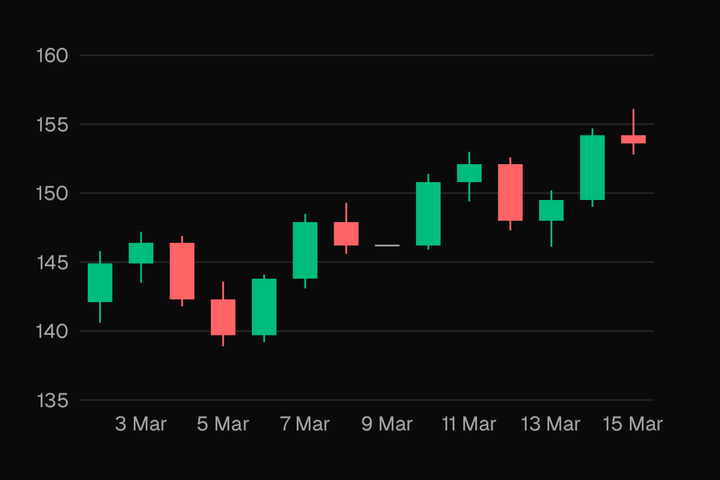
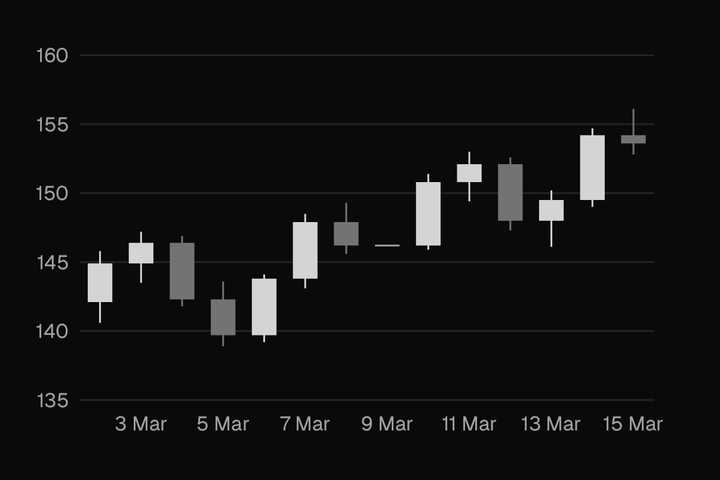
🎨 style(native-ui): paint candlesticks from the series ramp instead of success and destructive
- a rising candle is chart-1 and a falling one chart-2, so a pasted palette recolours the candlestick with every other chart
- flat candles stay muted-foreground; the candlestick preview is recaptured

diff --git a/packages/native-ui/src/components/chart/chart.variants.ts b/packages/native-ui/src/components/chart/chart.variants.ts
@@ -658,18 +658,20 @@ export function resolveBarRadius(size: ChartSize, radius: number, rounded?: bool
 }
 
 /**
- * The tokens a candle borrows for its sentiment.
+ * The tokens a candle takes for its sentiment.
  *
- * Rule 11: a colour that carries meaning is a shadcn token, so a pasted theme
- * moves it. `success` and `destructive` are what a rising and a falling value
- * already mean everywhere else in the package, and a flat candle is
- * `muted-foreground` — it says nothing, in the colour of things that say
- * nothing. Only literal overrides are accepted on the part, so the root can
- * resolve these three with three fixed hook calls.
+ * The first two slots of the series ramp, so a candlestick is painted from the
+ * same five colours as every other chart and a pasted palette recolours it with
+ * them. `success` and `destructive` were the first choice — they already mean
+ * up and down elsewhere — but they made the one chart on a dashboard that
+ * ignored the ramp, in red and green a theme never picked for its charts.
+ * A flat candle is `muted-foreground`: it says nothing, in the colour of things
+ * that say nothing. Only literal overrides are accepted on the part, so the
+ * root can resolve these three with three fixed hook calls.
  */
 export const CANDLE_SENTIMENT_TOKENS: ChartCandleColors = {
-	positive: "success",
-	negative: "destructive",
+	positive: "chart-1",
+	negative: "chart-2",
 	neutral: "muted-foreground",
 };
 

diff --git a/apps/web/src/previews/manifest.ts b/apps/web/src/previews/manifest.ts
@@ -484,15 +484,15 @@ export const previews = {
 		component: "chart",
 		demo: "candlestick/candlestick",
 		title: "Candlestick",
-		description: "Open, high, low and close per day. A candle that closed up is `success`, one that closed down is `destructive` — the tokens those meanings already have.",
+		description: "Open, high, low and close per day. A candle that closed up is `chart-1`, one that closed down is `chart-2` — the top of the same ramp every other chart wears.",
 		frame: "stage",
 		width: 720,
 		height: 480,
 		animated: false,
-		light: { poster: "/previews/chart/candlestick/candlestick/light.png?v=69e1947ed545" },
-		dark: { poster: "/previews/chart/candlestick/candlestick/dark.png?v=69e1947ed545" },
-		sourceHash: "69e1947ed545",
-		capturedAt: "2026-09-02T17:44:39.357Z",
+		light: { poster: "/previews/chart/candlestick/candlestick/light.png?v=e62bcbbe3065" },
+		dark: { poster: "/previews/chart/candlestick/candlestick/dark.png?v=e62bcbbe3065" },
+		sourceHash: "e62bcbbe3065",
+		capturedAt: "2026-09-02T19:57:12.372Z",
 		device: "iPhone 17 Pro · iOS 26.3",
 	},
 	"chart/line/curves": {

diff --git a/packages/native-ui/src/components/chart/chart-candlestick.tsx b/packages/native-ui/src/components/chart/chart-candlestick.tsx
@@ -12,7 +12,7 @@ export type ChartCandlestickProps = {
 	/**
 	 * Overrides the sentiment colours. Literals only.
 	 *
-	 * The defaults are `success`, `destructive` and `muted-foreground`,
+	 * The defaults are `chart-1`, `chart-2` and `muted-foreground`,
 	 * resolved in the root; a token here would reach the canvas unresolved.
 	 */
 	colors?: Partial<ChartCandleColors>;
@@ -29,8 +29,8 @@ export type ChartCandlestickProps = {
  * The chart's `config` names the close field alone, so the legend and the
  * tooltip name one price rather than four; the root reads the other three
  * fields off this part and plots them for the engine. A rising candle is
- * `success` and a falling one `destructive` — the tokens those meanings
- * already have everywhere else — and a flat candle is `muted-foreground`.
+ * `chart-1` and a falling one `chart-2` — the top of the same ramp every
+ * other chart wears — and a flat candle is `muted-foreground`.
  */
 export function ChartCandlestick(props: ChartCandlestickProps): ReactElement {
 	const { candleColors } = useChart();

diff --git a/apps/playground/src/demos/chart/candlestick/candlestick.tsx b/apps/playground/src/demos/chart/candlestick/candlestick.tsx
@@ -5,7 +5,7 @@ import type { DemoMeta } from "@/demos/types";
 export const meta: DemoMeta = {
 	title: "Candlestick",
 	caption:
-		"Open, high, low and close per day. A candle that closed up is `success`, one that closed down is `destructive` — the tokens those meanings already have.",
+		"Open, high, low and close per day. A candle that closed up is `chart-1`, one that closed down is `chart-2` — the top of the same ramp every other chart wears.",
 	note: "The `config` names the close field alone, so the legend and the readout name one price rather than four; the part reads the other three off its own props.",
 	capture: { align: "stretch" },
 };

diff --git a/packages/native-ui/src/components/chart/chart.tsx b/packages/native-ui/src/components/chart/chart.tsx
@@ -434,7 +434,7 @@ export const Chart = Object.assign(ChartRoot, {
 	Bar: ChartBar,
 	/** One dot per datum, in the series' colour. */
 	Scatter: ChartScatter,
-	/** Open-high-low-close candles in `success`, `destructive` and `muted-foreground`. */
+	/** Open-high-low-close candles in `chart-1`, `chart-2` and `muted-foreground`. */
 	Candlestick: ChartCandlestick,
 	/** Tick labels below the plot, in `muted-foreground`. */
 	XAxis: ChartXAxis,

diff --git a/packages/native-ui/src/components/chart/AGENTS.md b/packages/native-ui/src/components/chart/AGENTS.md
@@ -142,9 +142,11 @@ knows nothing about tokens.
   `tokens.css`. A stack rounds only its outermost segment, so a column reads
   as one bar rather than a pile of pills. `rounded={false}` is square.
 
-- **Candle sentiment borrows `success` and `destructive`.** Rule 11: a
-  colour with a meaning is a shadcn token, and those two already mean "up" and
-  "down" everywhere else here; a flat candle is `muted-foreground`. The root
+- **Candle sentiment is the top of the ramp.** A rising candle is `chart-1`
+  and a falling one `chart-2`, so a candlestick is painted from the same five
+  colours as every other chart and a pasted palette recolours it with them.
+  `success` and `destructive` were tried first and made the one chart on a
+  dashboard that ignored the ramp; a flat candle is `muted-foreground`. The root
   resolves the three with three fixed hook calls, which is why the part takes
   only literal overrides — a token given to a mark inside the canvas has
   nothing to resolve it. The config names the close field alone, so the
